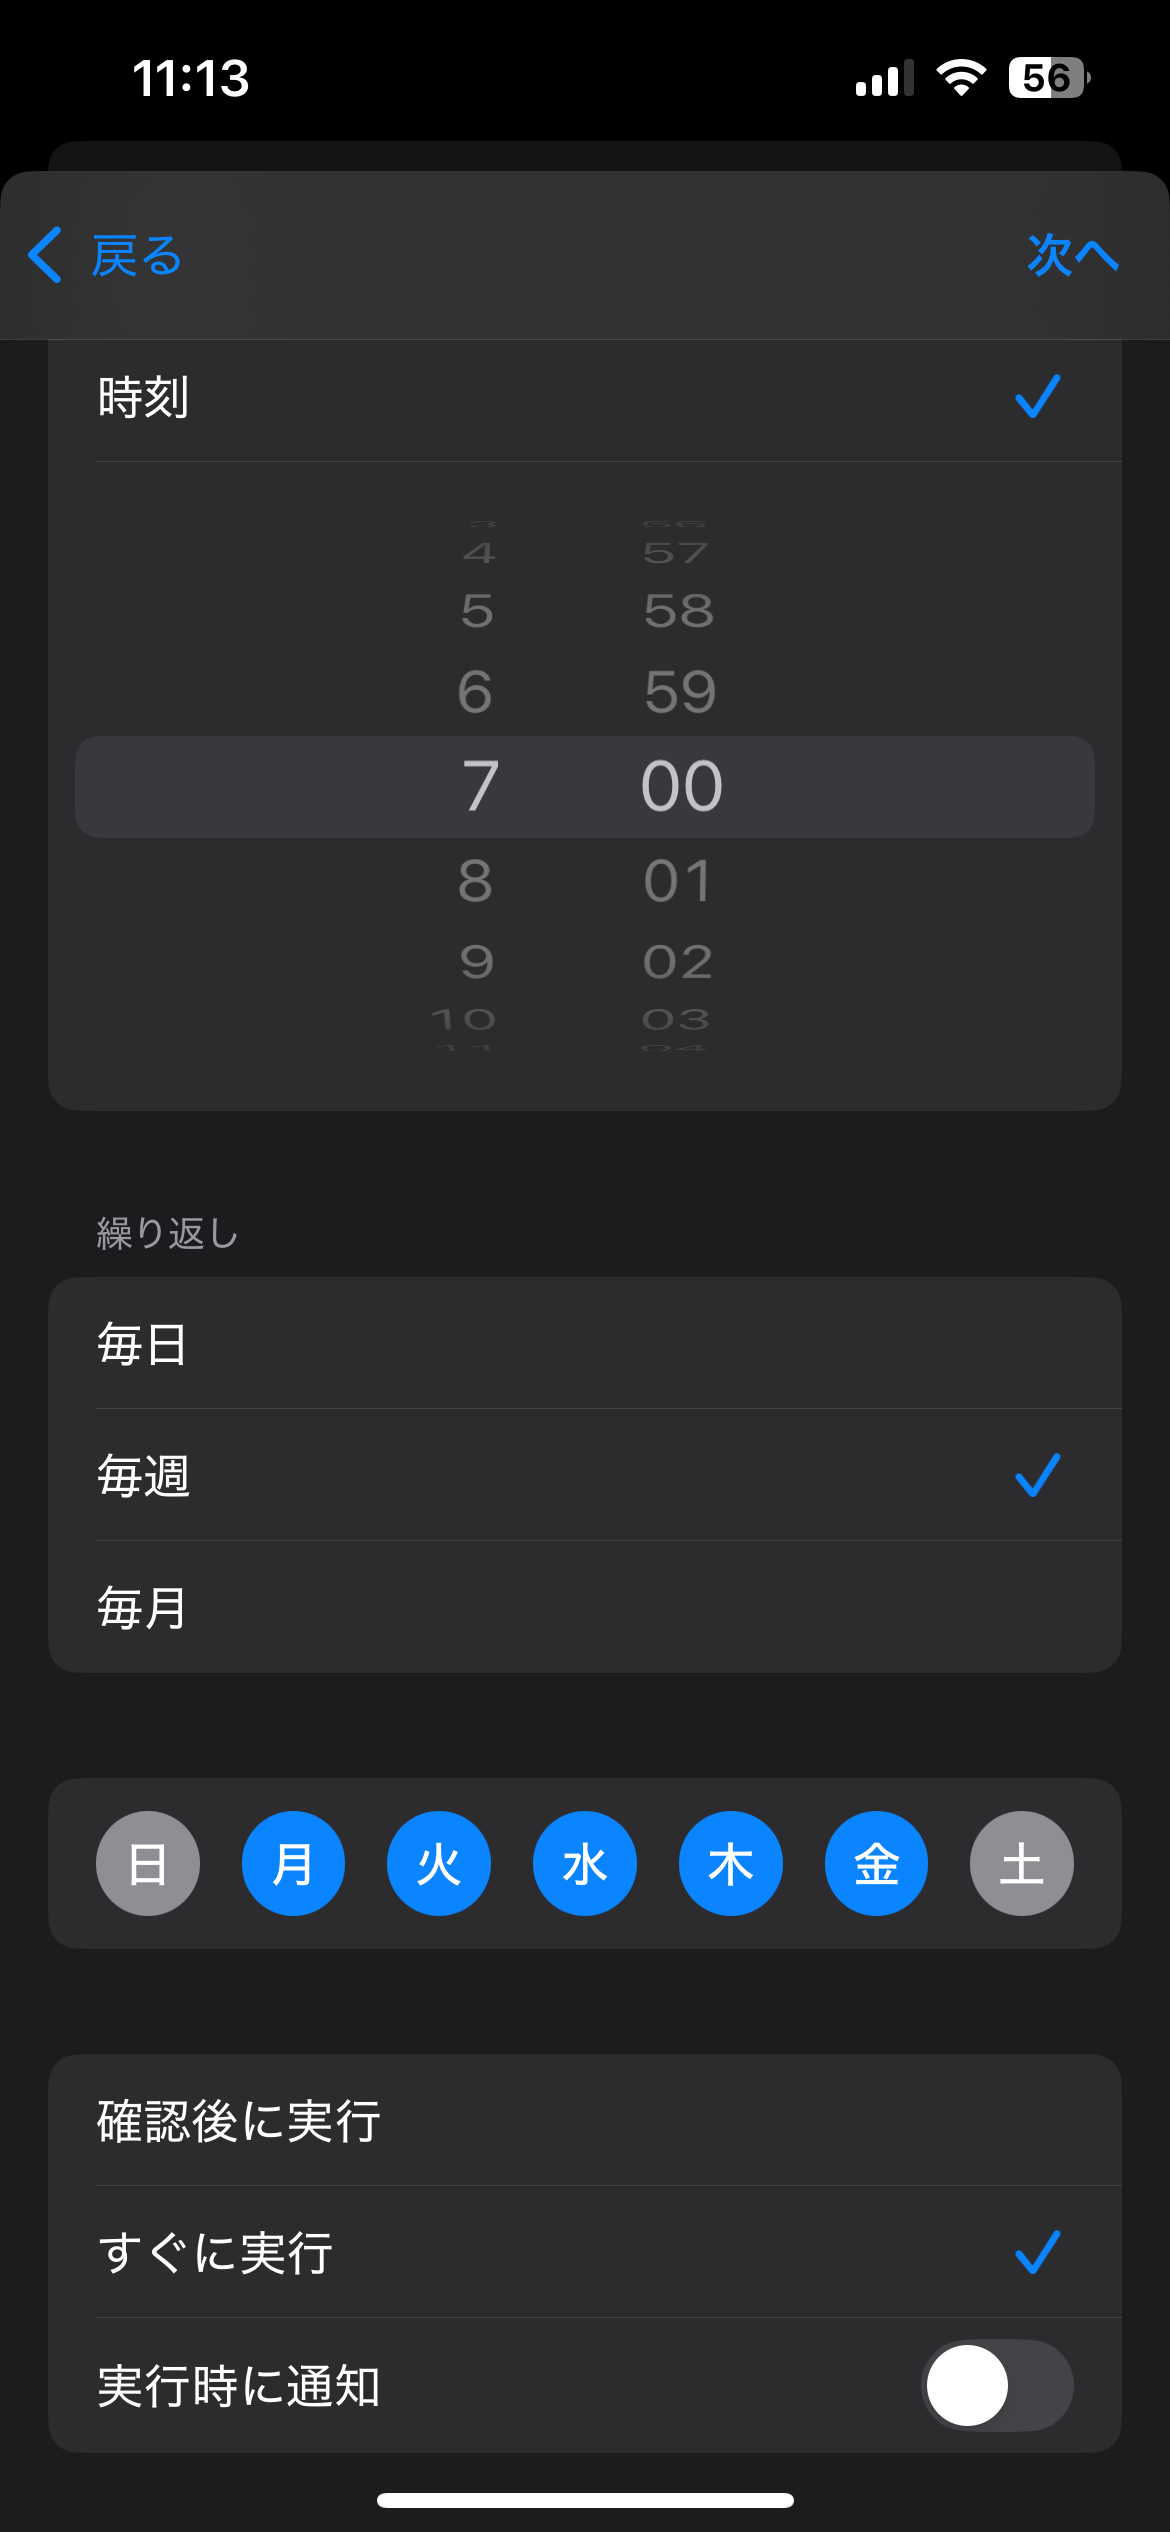
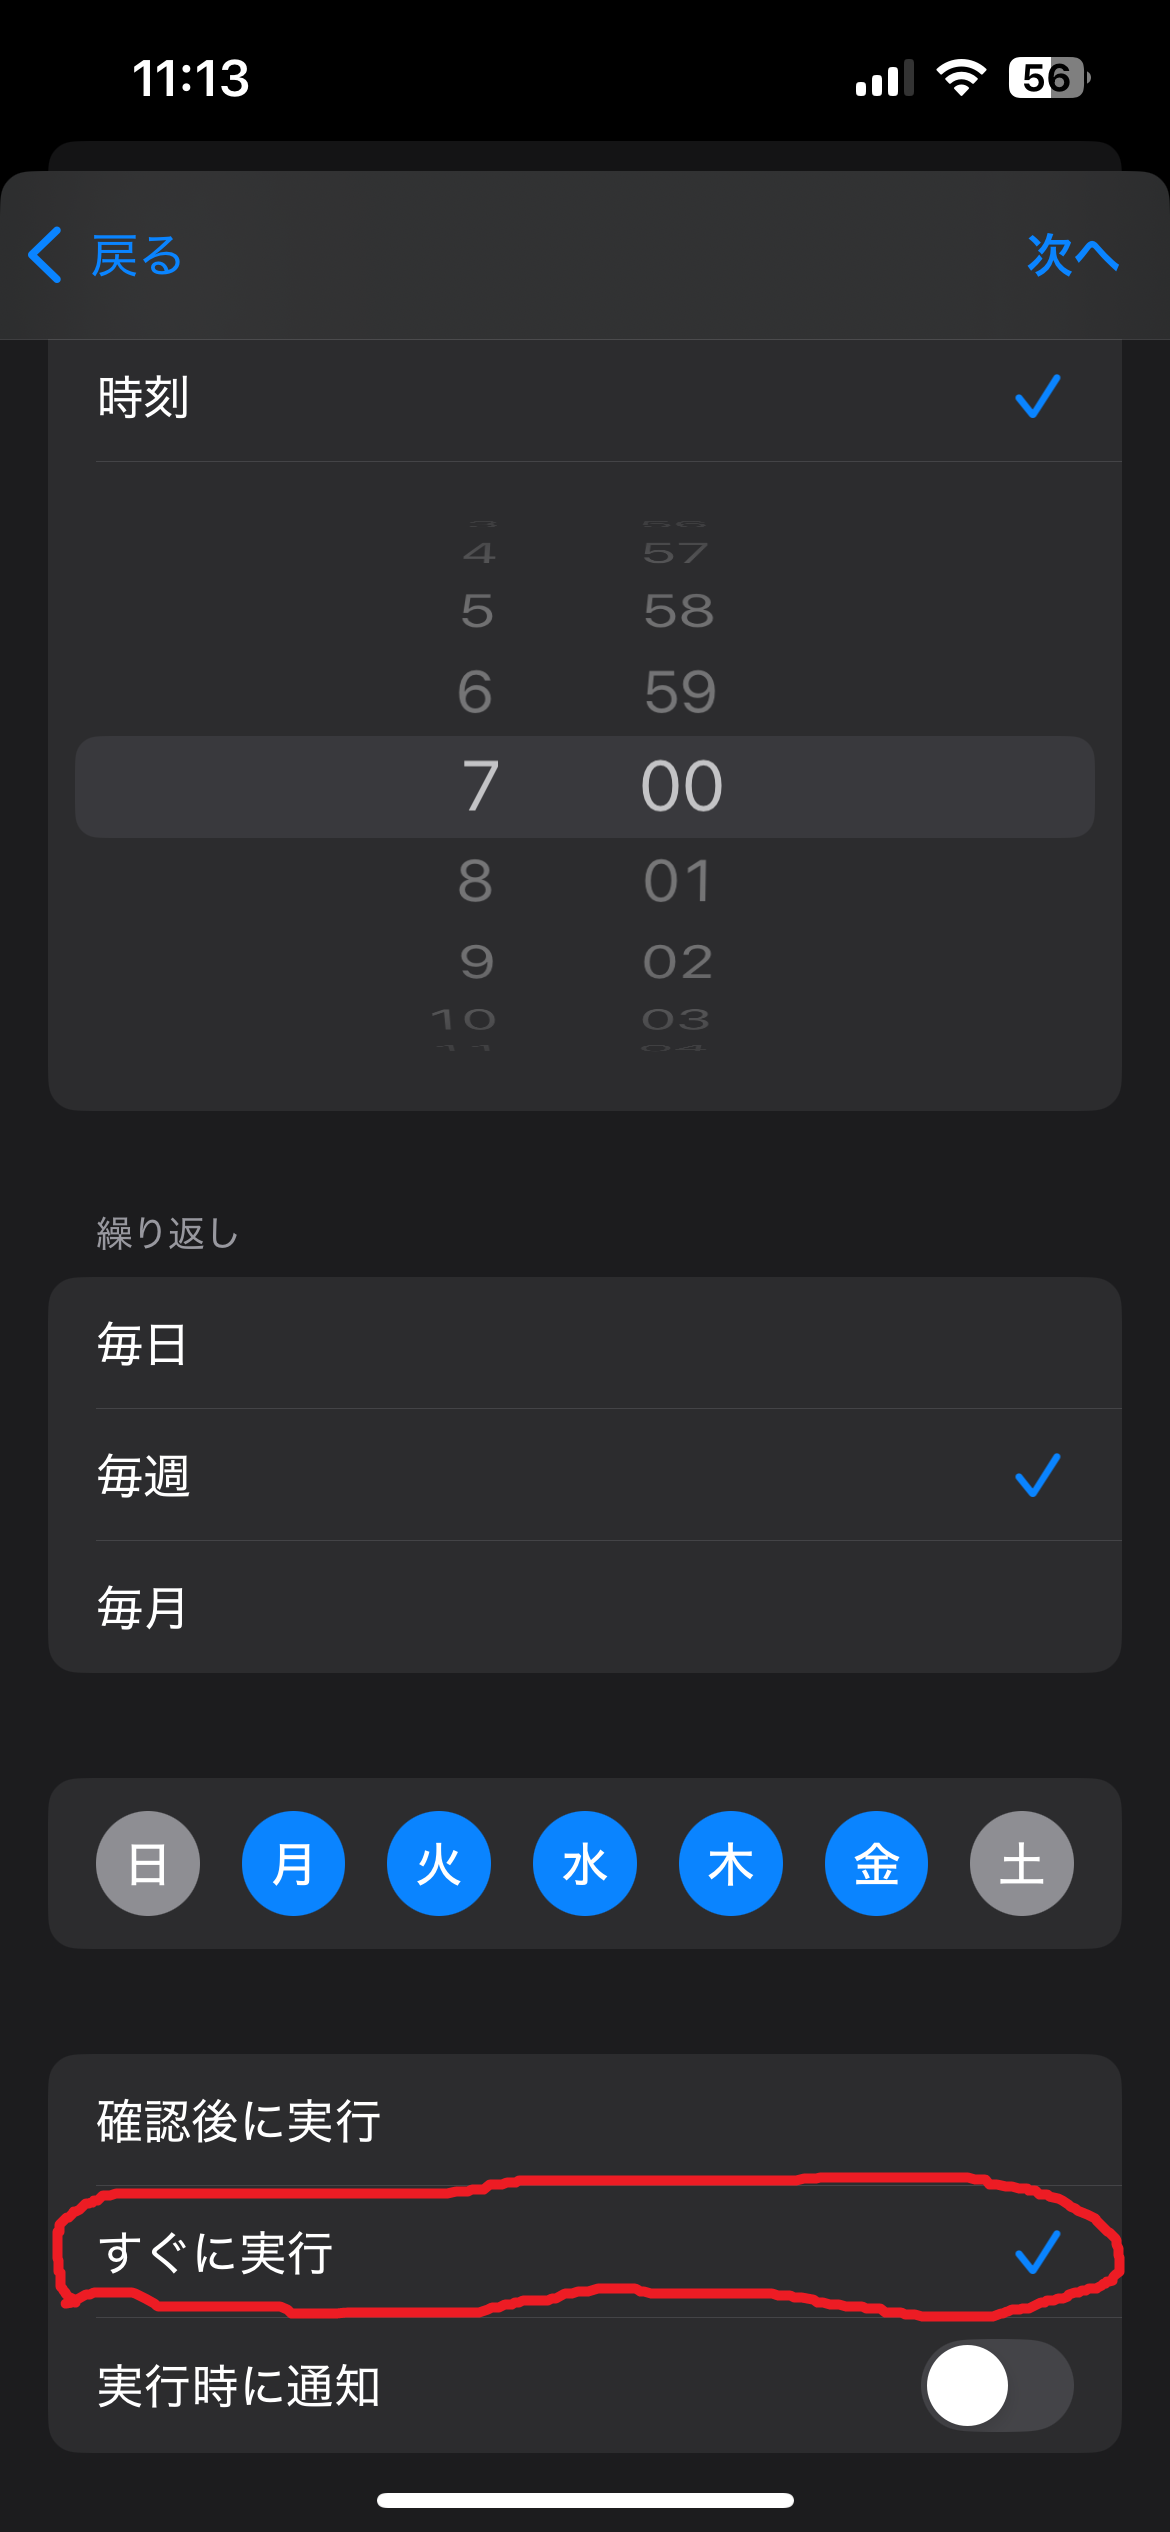
update explain

diff --git a/src/app/page.tsx b/src/app/page.tsx
@@ -1,4 +1,4 @@
-import { InfoIcon } from "lucide-react";
+import { InfoIcon, TriangleAlertIcon } from "lucide-react";
 import Link from "next/link";
 import { AuroraText } from "@/components/magicui/aurora-text";
 import { Meteors } from "@/components/magicui/meteors";
@@ -88,21 +88,60 @@ export default function Home() {
                 </span>
               </AlertDescription>
             </Alert>
-            <ol className="flex flex-col gap-2">
+            <ol className="flex flex-col gap-y-6 [&>li]:flex [&>li]:flex-col [&>li]:gap-2">
               <li>
-                1.{" "}
-                <a
-                  href="https://www.icloud.com/shortcuts/f4e9e3f550ea49168ccc775b99689d25"
-                  target="_blank"
-                  rel="noopener noreferrer"
-                  className="hover:underline text-blue-500 dark:text-blue-400"
-                >
-                  こちら
-                </a>
-                から公式ショートカットを入手する
+                <span>
+                  1.{" "}
+                  <a
+                    href="https://www.icloud.com/shortcuts/f4e9e3f550ea49168ccc775b99689d25"
+                    target="_blank"
+                    rel="noopener noreferrer"
+                    className="hover:underline text-blue-500 dark:text-blue-400"
+                  >
+                    こちら
+                  </a>
+                  から公式ショートカットを入手する
+                </span>
               </li>
-              <li>2. ショートカットアプリからオートメーションを設定する</li>
-              <ExplainImage src="/explain/automation.png" alt="" />
+              <li>2. ショートカットアプリからオートメーションを開く</li>
+              <li>
+                3. +ボタンを押して新しいオートメーションを作成する
+                <ExplainImage
+                  src="/explain/automation.png"
+                  alt="オートメーションタブの+ボタンに矢印が指されている画像"
+                />
+              </li>
+              <li>
+                4. お好みでオートメーションを選択する(ここでは時刻)
+                <ExplainImage
+                  src="/explain/select.png"
+                  alt="オートメーション選択画面"
+                />
+              </li>
+              <li>
+                5. オートメーションを設定して次へを押す
+                <Alert>
+                  <TriangleAlertIcon />
+                  <AlertTitle>注意</AlertTitle>
+                  <AlertDescription className="font-bold underline">
+                    「すぐに実行」を必ず選択してください。
+                  </AlertDescription>
+                </Alert>
+                <ExplainImage
+                  src="/explain/config.png"
+                  alt="トリガーの設定画面"
+                />
+              </li>
+              <li>
+                6. ショートカット「Maji Alarm」を選択する
+                <ExplainImage
+                  src="/explain/shortcut.png"
+                  alt="ショートカットを選択する画面"
+                />
+              </li>
+              <li>7. 設定完了</li>
+              これで、設定したオートメーションが起動すると、Maji
+              Alarmが起動するようになります。
             </ol>
             <DialogFooter>
               <DialogClose asChild>
